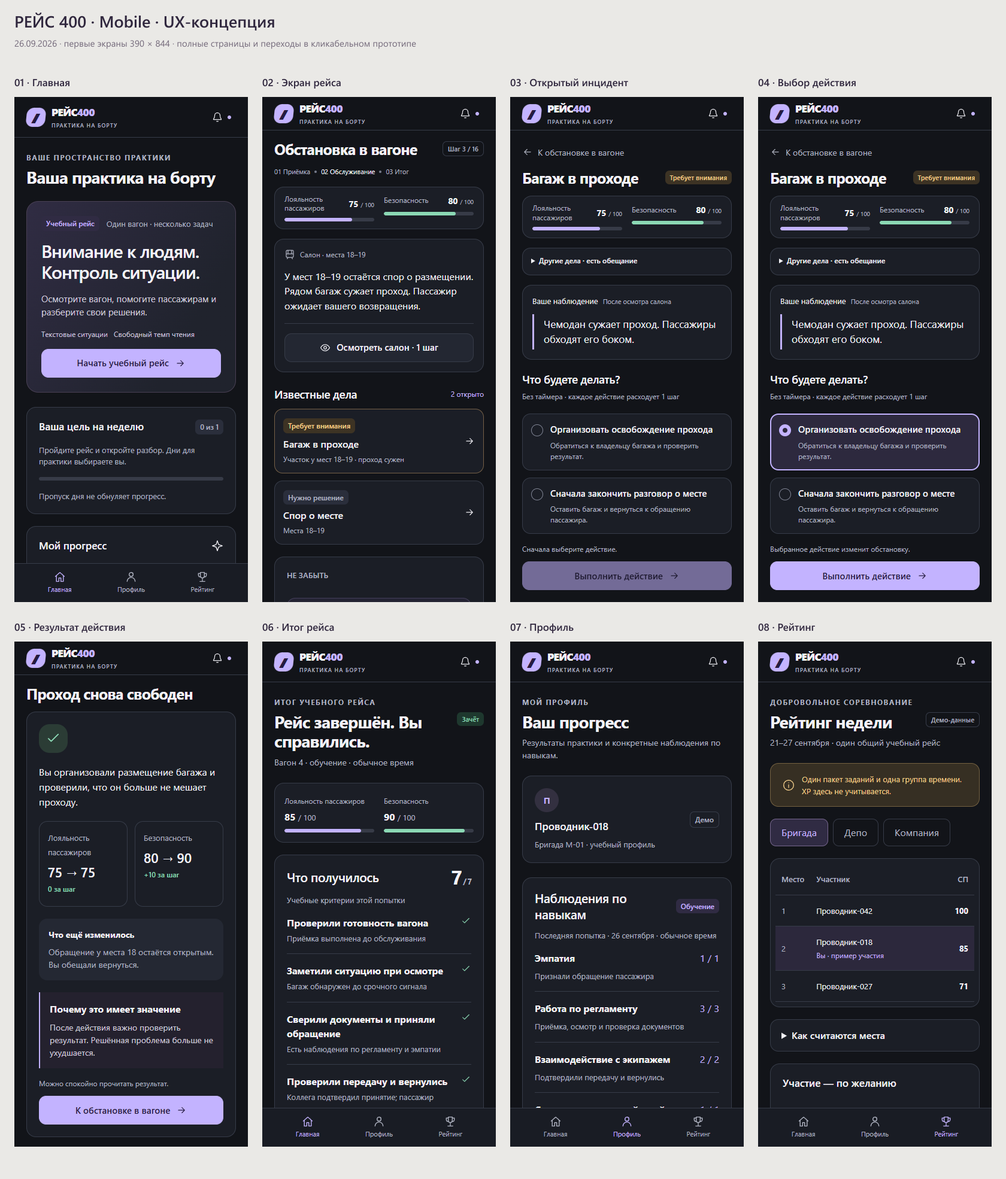
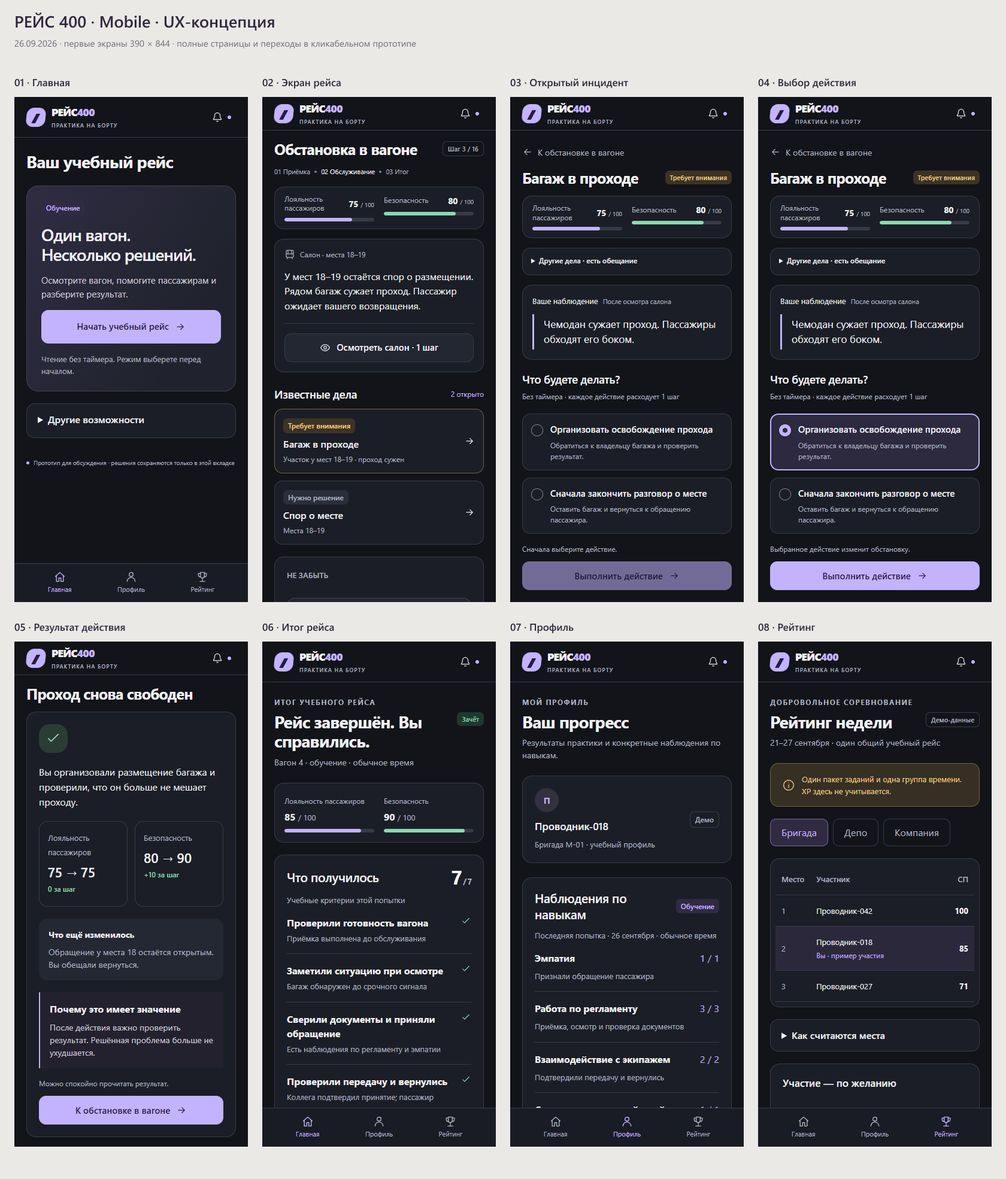
docs(ux): simplify home and separate design handoff from runtime

Changed region(s): [[0.031, 0.1239, 0.2167, 0.4645]]

diff --git a/docs/ux-2026-09-26/index.html b/docs/ux-2026-09-26/index.html
@@ -1,11 +1,11 @@
 <!doctype html><html lang="ru"><head><meta charset="utf-8"><meta name="viewport" content="width=device-width,initial-scale=1"><title>РЕЙС 400 — UX для обсуждения</title><style>
 *{box-sizing:border-box}body{margin:0;background:#eae9e6;color:#25262d;font:15px/1.5 'Segoe UI',Arial,sans-serif}button,select{font:inherit}button,a,select{touch-action:manipulation}button{cursor:pointer}a{color:#5b467f;text-underline-offset:3px}.review-head{padding:22px 32px 0;background:#faf9f7;border-bottom:1px solid #d6d3d0}.head{display:flex;justify-content:space-between;gap:20px;align-items:center}.head h1{font-size:24px;letter-spacing:-.7px;margin:0;font-weight:650}.head p{margin:4px 0 0;color:#686671;font-size:13px}.head .meta{font-size:12px;color:#686671;text-align:right}.review-tabs{display:flex;gap:24px;margin-top:22px;flex-wrap:wrap}.review-tabs button{background:none;border:0;border-bottom:3px solid transparent;padding:0 0 12px;color:#706b76;min-height:44px}.review-tabs button.active{border-bottom-color:#7b649f;color:#30273e;font-weight:650}button:focus-visible,a:focus-visible,select:focus-visible{outline:3px solid #78629e;outline-offset:3px}.toolbar{padding:16px 32px;display:flex;justify-content:space-between;gap:16px;align-items:center;flex-wrap:wrap}.tools{display:flex;gap:10px;align-items:center;flex-wrap:wrap}.toolbar label{font-size:12px;color:#686671}.toolbar select{border:1px solid #c9c5cf;background:#faf9f7;border-radius:8px;padding:8px;min-height:40px;max-width:280px}.segmented{display:flex;border:1px solid #c9c5cf;border-radius:8px;overflow:hidden}.segmented button{border:0;background:#f8f7f5;padding:8px 14px;min-height:40px;color:#66606f}.segmented button.active{background:#30273e;color:#fff}.plain{border:1px solid #c9c5cf;border-radius:8px;background:#f8f7f5;padding:8px 14px;min-height:40px;color:#47404e;text-decoration:none;font-size:13px}.frame-wrap{padding:0 24px 24px;display:flex;justify-content:center}iframe{width:100%;height:calc(100vh - 237px);min-height:640px;border:1px solid #57505e;border-radius:16px;background:#121419;box-shadow:0 12px 45px #30273e15;transition:width .15s}iframe.mobile{width:390px;max-width:100%;height:844px;border-radius:28px;border:7px solid #343139}.caption{font-size:12px;text-align:center;color:#686671;margin:0 20px 24px}.sheet{max-width:1180px;margin:28px auto 60px;padding:0 28px}.sheet h2{font-size:32px;letter-spacing:-.8px;line-height:1.2;margin:0 0 14px;font-weight:600}.sheet h3{font-size:20px;margin:0 0 12px}.lead{font-size:17px;color:#686671;max-width:78ch}.cards{display:grid;grid-template-columns:repeat(2,minmax(0,1fr));gap:20px;margin:28px 0}.card{padding:24px;border:1px solid #d2cdd7;background:#faf9f7;border-radius:16px}.card p{color:#625d69;margin:8px 0}.tag{display:inline-block;font-size:11px;padding:4px 8px;background:#ece5f3;border-radius:6px;color:#5f4b7e;margin-bottom:14px;font-weight:600}.tag.warn{background:#eee3d3;color:#745529}.card img{width:100%;border-radius:8px;margin-top:12px}.flow-art{width:100%;background:#faf9f7;border:1px solid #d2cdd7;border-radius:20px;margin:24px 0}.steps{display:grid;grid-template-columns:repeat(3,1fr);gap:20px;margin:24px 0}.step{background:#faf9f7;border-radius:14px;border:1px solid #d2cdd7;padding:20px}.step b{color:#8b709e;font-size:13px}.step strong{display:block;margin-top:10px}.step p{font-size:14px;color:#686671}.swatches{display:flex;gap:12px;flex-wrap:wrap;margin:24px 0}.swatch{border:1px solid #cbc5d2;border-radius:12px;overflow:hidden;width:145px;background:white}.swatch div{height:64px}.swatch p{margin:12px;font-size:12px}.token-table{width:100%;border-collapse:collapse;font-size:14px}.token-table td,.token-table th{padding:14px;border-bottom:1px solid #d4cfd9;text-align:left;vertical-align:top}.token-table th{font-size:12px;color:#6c6277}.link-row{display:flex;gap:18px;flex-wrap:wrap;margin:24px 0}.component-preview{background:#171921;color:#eeeaf6;padding:24px;border-radius:16px;display:flex;align-items:center;gap:16px;flex-wrap:wrap}.component-preview .primary{background:#c3b3ff;color:#251b40;border:0;border-radius:12px;padding:14px 20px;min-height:48px;font-size:15px}.component-preview span{padding:7px 11px;border-radius:8px;font-size:12px}.screens-grid{display:grid;grid-template-columns:repeat(4,1fr);gap:20px;margin:24px 0}.screen-item{background:#faf9f7;border:1px solid #d2cdd7;border-radius:14px;padding:12px;text-decoration:none;color:#30273e}.screen-item img{width:100%;border-radius:8px;border:1px solid #d2cdd7;display:block;margin-bottom:12px}.screen-item strong{font-size:14px}.screen-item small{display:block;color:#6c6277}.callout{border-left:3px solid #8d74a7;padding:8px 0 8px 20px;color:#625d69;max-width:86ch}.hidden{display:none!important}@media(max-width:700px){.review-head{padding:18px 20px 0}.head{display:block}.head .meta{display:none}.head h1{font-size:21px}.review-tabs{gap:16px;font-size:13px;margin-top:16px}.toolbar{padding:14px 20px}.toolbar select{max-width:235px}.frame-wrap{padding:0 10px 20px}iframe{height:780px;border-radius:12px;min-height:0}.sheet{padding:0 20px;margin-top:24px}.sheet h2{font-size:27px}.cards,.steps{grid-template-columns:1fr}.screens-grid{grid-template-columns:repeat(2,1fr)}.token-table{font-size:12px}.token-table td,.token-table th{padding:10px}.lead{font-size:16px}.flow-art{min-height:220px}.tools .plain{display:none}}
 </style></head><body>
-<header class="review-head"><div class="head"><div><h1>РЕЙС 400 <span style="font-weight:400;color:#81768d">/ UX-концепция</span></h1><p>Понятная обстановка. Одно решение в фокусе.</p></div><div class="meta">26 сентября 2026<br>Для согласования · frontend не изменён</div></div><nav class="review-tabs" aria-label="Материалы концепции"><button data-tab="prototype" class="active">Прототип</button><button data-tab="flow">User Flow</button><button data-tab="audit">Аудит</button><button data-tab="system">Дизайн-система</button><button data-tab="screens">Все макеты</button></nav></header>
+<header class="review-head"><div class="head"><div><h1>РЕЙС 400 <span style="font-weight:400;color:#81768d">/ UX-концепция</span></h1><p>Понятная обстановка. Одно решение в фокусе.</p></div><div class="meta">26 сентября 2026<br>Дизайн-база · runtime отдельно</div></div><nav class="review-tabs" aria-label="Материалы концепции"><button data-tab="prototype" class="active">Прототип</button><button data-tab="flow">User Flow</button><button data-tab="audit">Аудит</button><button data-tab="system">Дизайн-система</button><button data-tab="screens">Все макеты</button></nav></header>
 <section id="prototype" class="tab-content"><div class="toolbar"><div class="tools"><label for="screen">Экран</label><select id="screen"><optgroup label="Основные макеты"><option value="home">01 · Главная</option><option value="overview" selected>02 · Экран рейса</option><option value="incident">03 · Открытый инцидент</option><option value="action">04 · Выбор действия</option><option value="feedback">05 · Результат действия</option><option value="result">06 · Итог рейса</option><option value="profile">07 · Профиль</option><option value="ranking">08 · Рейтинг</option></optgroup><optgroup label="Дополнительные состояния"><option value="briefing">Брифинг и режим</option><option value="inspection">Приёмка</option><option value="pending">Срочный сигнал до таймера</option><option value="critical">Критическое решение</option><option value="paused">Учебная пауза</option><option value="timeout">Время истекло</option><option value="offline">Потеря ответа</option><option value="failed">Незачёт</option><option value="empty">Пустой профиль</option><option value="notices">Уведомления</option></optgroup></select><a class="plain" id="separate" href="prototype.html?screen=overview" target="_blank">Отдельное окно ↗</a></div><div class="tools"><div class="segmented" aria-label="Размер макета"><button id="desktop" class="active">Desktop</button><button id="mobile">Mobile · 390</button></div><button class="plain" id="start">Пройти с начала ↻</button></div></div><div class="frame-wrap"><iframe id="frame" title="Кликабельный UX-прототип РЕЙС 400" src="prototype.html?screen=overview&amp;preview=review-initial"></iframe></div><p class="caption">Кликайте внутри макета. Переключатель экрана открывает демонстрационное состояние. Полный путь начинается с главной.</p></section>
 <section id="flow" class="tab-content sheet hidden"><span class="tag">01 / ИГРОВОЙ ЦИКЛ</span><h2>Общая картина → конкретное дело →<br>изменившаяся обстановка.</h2><p class="lead">Игрок видит только известные факты. Два дела могут оставаться открытыми одновременно, но на экране решения — один диалог.</p><img class="flow-art" src="user-flow.svg" alt="Путь от главной и приёмки к обзору, инциденту, действию, последствиям и итогу. Ветка срочного сигнала открывает таймер только после продолжения."><div class="steps"><div class="step"><b>01 · ОБНАРУЖИТЬ</b><strong>Осмотр меняет знание</strong><p>До осмотра скрытая проблема не показана даже в счётчике. Обычное чтение не тратит шаги.</p></div><div class="step"><b>02 · ВЫБРАТЬ ПРИОРИТЕТ</b><strong>Один фокус, общий мир</strong><p>Второе дело и обещание сохраняются. Возврат к обстановке ничего не обнуляет.</p></div><div class="step"><b>03 · ПРОВЕРИТЬ И ВЕРНУТЬСЯ</b><strong>Передано ≠ выполнено</strong><p>Запрос, подтверждение принятия и проверка исполнения показаны раздельно.</p></div></div><div class="callout">В обычном выборе: отметить вариант → выполнить. В критической сцене: одно нажатие сразу выполняет действие. Это различие явно подписано. Подсказки и пауза доступны только в обучении.</div><div class="link-row"><a href="USER-FLOW.md">Подробный User Flow и сценарий просмотра</a><a href="SCREENS.md">Спецификация экранов и состояний</a></div></section>
 <section id="audit" class="tab-content sheet hidden"><span class="tag">02 / ТЕКУЩЕЕ ПРИЛОЖЕНИЕ</span><h2>Сначала понять, потом украшать.</h2><p class="lead">Пройдены все пять модулей, результаты, профиль, история и повтор, уведомления и три области рейтинга. Проверены desktop и mobile в браузере.</p><div class="cards"><article class="card"><span class="tag">ФОТО 1 · ПОДТВЕРЖДЕНО</span><h3>Навигацию приходится угадывать</h3><p>На телефоне видны абстрактные символы без подписей. Новая основа — три подписанных раздела и явный возврат к обстановке.</p><a href="evidence/current-home-mobile.png">Открыть текущий mobile-экран ↗</a></article><article class="card"><span class="tag">ФОТО 2 · ПОДТВЕРЖДЕНО</span><h3>Отступ перед ответом — 0 px</h3><p>Подсказка слипается с карточкой. В концепции — 20 px до первого варианта, 12 px между вариантами, 16–20 px внутри.</p><a href="evidence/current-scene-mobile.png">Посмотреть текущий игровой экран ↗</a></article><article class="card"><span class="tag warn">ФОТО 3 · ВНЕШНИЙ ПРИМЕР</span><h3>Перекрытие на сайте хакатона</h3><p>Такой cookie-баннер в игре не найден. В дизайн-правила включены контроль слоёв, границ окна и видимости основного действия.</p></article><article class="card"><span class="tag warn">ФОТО 4 · НЕ ПОВТОРИЛОСЬ</span><h3>Уязвимая высота баннера</h3><p>На проверенных размерах кнопка не обрезалась. Фиксированная высота и overflow:hidden остаются риском. На 320 px обнаружена горизонтальная прокрутка.</p></article></div><h3>Что сокращаем</h3><table class="token-table"><thead><tr><th>Сейчас</th><th>Предложение</th></tr></thead><tbody><tr><td>11 входов в модули: hero + маршрут + карточки</td><td>Один главный вход в рейс; точечная практика ниже</td></tr><tr><td>Большая декоративная сцена до первого действия</td><td>Короткий контекст, видимые шкалы, варианты рядом</td></tr><tr><td>Технические подписи и мотивационные числа в игре</td><td>Состояние рейса в фокусе; XP и история в профиле</td></tr><tr><td>«Следующая ситуация», «К смене»</td><td>«К обстановке в вагоне», «Перейти к срочной ситуации»</td></tr></tbody></table><div class="link-row"><a href="AUDIT.md">Полный аудит с приоритетами и доказательствами</a><a href="QA-RESULTS.md">Проверки и ограничения</a></div></section>
-<section id="system" class="tab-content sheet hidden"><span class="tag">03 / ОСНОВА ИНТЕРФЕЙСА</span><h2>Спокойный интерфейс.<br>Ясная срочность.</h2><p class="lead">Сохраняем тёмную основу и сиреневый акцент. Цвет статуса всегда сопровождается словами. Красный появляется только там, где он нужен.</p><div class="swatches"><div class="swatch"><div style="background:#121419"></div><p>Фон<br><b>#121419</b></p></div><div class="swatch"><div style="background:#1b1e26"></div><p>Поверхность<br><b>#1B1E26</b></p></div><div class="swatch"><div style="background:#c3b3ff"></div><p>Действие<br><b>#C3B3FF</b></p></div><div class="swatch"><div style="background:#8bd8b4"></div><p>Выполнено<br><b>#8BD8B4</b></p></div><div class="swatch"><div style="background:#f4ce8b"></div><p>Внимание<br><b>#F4CE8B</b></p></div><div class="swatch"><div style="background:#ffaca5"></div><p>Критическое<br><b>#FFACA5</b></p></div></div><div class="cards"><div class="card"><h3>Segoe UI / системный шрифт</h3><p style="font-size:32px;line-height:1.2;color:#25262d">Решение начинается<br>с внимания.</p><p>Заголовок 28–40 · текст 16 · пояснение 13–14.<br>Строка 1.5–1.6, без мелкого текста в ответах.</p></div><div class="card"><h3>8 px — основа ритма</h3><p>Поля 40 / 20. Карточки 24 / 20.<br>Варианты: промежуток 12, padding 16–20.<br>Кнопка минимум 48 по высоте.</p><p>Карточки растут по содержимому. Декор не обрезает CTA.</p></div></div><div class="component-preview"><button class="primary" type="button" onclick="this.textContent=this.textContent==='Выполнить действие'?'Действие подтверждено':'Выполнить действие'">Выполнить действие</button><span style="background:#1e382e;color:#8bd8b4">✓ Выполнено</span><span style="background:#3d3324;color:#f4ce8b">Требует внимания</span><span style="background:#442929;color:#ffaca5">! Критическая ситуация</span></div><div class="steps"><div class="step"><strong>Кнопки</strong><p>Одна ведущая цель. Явный focus. Вариант ответа выбирается без угадывания иконки.</p></div><div class="step"><strong>Таймер</strong><p>Стабильные цифры, только одно окно. Пауза подтверждена, остаток сохранён.</p></div><div class="step"><strong>Слои</strong><p>Уведомления не накрывают рабочий выбор. Основное действие остаётся в потоке страницы.</p></div></div><div class="link-row"><a href="DESIGN-SYSTEM.md">Все размеры, компоненты, состояния и источники</a></div></section>
+<section id="system" class="tab-content sheet hidden"><span class="tag">03 / ОСНОВА ИНТЕРФЕЙСА</span><h2>Спокойный интерфейс.<br>Ясная срочность.</h2><p class="lead">Сохраняем тёмную основу и сиреневый акцент. Цвет статуса всегда сопровождается словами. Красный появляется только там, где он нужен.</p><div class="swatches"><div class="swatch"><div style="background:#121419"></div><p>Фон<br><b>#121419</b></p></div><div class="swatch"><div style="background:#1b1e26"></div><p>Поверхность<br><b>#1B1E26</b></p></div><div class="swatch"><div style="background:#c3b3ff"></div><p>Действие<br><b>#C3B3FF</b></p></div><div class="swatch"><div style="background:#8bd8b4"></div><p>Выполнено<br><b>#8BD8B4</b></p></div><div class="swatch"><div style="background:#f4ce8b"></div><p>Внимание<br><b>#F4CE8B</b></p></div><div class="swatch"><div style="background:#ffaca5"></div><p>Критическое<br><b>#FFACA5</b></p></div></div><div class="cards"><div class="card"><h3>Segoe UI / системный шрифт</h3><p style="font-size:32px;line-height:1.2;color:#25262d">Решение начинается<br>с внимания.</p><p>Заголовок 28–40 · текст 16 · пояснение 13–14.<br>Строка 1.5–1.6, без мелкого текста в ответах.</p></div><div class="card"><h3>8 px — основа ритма</h3><p>Поля 40 / 20. Карточки 24 / 20.<br>Варианты: промежуток 12, padding 16–20.<br>Кнопка минимум 48 по высоте.</p><p>Карточки растут по содержимому. Декор не обрезает CTA.</p></div></div><div class="component-preview"><button class="primary" type="button" onclick="this.textContent=this.textContent==='Выполнить действие'?'Действие подтверждено':'Выполнить действие'">Выполнить действие</button><span style="background:#1e382e;color:#8bd8b4">✓ Выполнено</span><span style="background:#3d3324;color:#f4ce8b">Требует внимания</span><span style="background:#442929;color:#ffaca5">! Критическая ситуация</span></div><div class="steps"><div class="step"><strong>Кнопки</strong><p>Одна ведущая цель. Явный focus. Вариант ответа выбирается без угадывания иконки.</p></div><div class="step"><strong>Таймер</strong><p>Стабильные цифры, только одно окно. Пауза подтверждена, остаток сохранён.</p></div><div class="step"><strong>Слои</strong><p>Уведомления не накрывают рабочий выбор. Основное действие остаётся в потоке страницы.</p></div></div><div class="link-row"><a href="DESIGN-SYSTEM.md">Все размеры, компоненты, состояния и источники</a><a href="DESIGN-HANDOFF.md">Отдельная поставка дизайна и интеграция #26</a></div></section>
 <section id="screens" class="tab-content sheet hidden"><span class="tag">04 / ВОСЕМЬ ОСНОВНЫХ ЭКРАНОВ</span><h2>Весь путь на одном листе.</h2><p class="lead">Каждый экран подготовлен для desktop и mobile. «Инцидент» и «Выбор действия» — два состояния одного экрана, без лишнего промежуточного перехода.</p><div class="screens-grid" id="screen-grid"></div><div class="link-row"><a href="screens/contact-sheet-desktop.png">Лист desktop-макетов</a><a href="screens/contact-sheet-mobile.png">Лист mobile-макетов</a><a href="SCREENS.md">Описание экранов и дополнительных состояний</a></div></section>
 <script>
 const frame=document.getElementById('frame'),select=document.getElementById('screen');

diff --git a/docs/ux-2026-09-26/prototype.css b/docs/ux-2026-09-26/prototype.css
@@ -18,3 +18,6 @@
 @media(max-width:680px){.game .choices{margin-top:20px}}
 
 html{scroll-padding-bottom:96px}button,summary,a{scroll-margin-bottom:88px}
+
+/* Home refinement: one primary entry, optional secondary content. */
+.home-secondary{margin-top:24px}.home-secondary>summary{min-height:56px}.hero-copy>.badge{justify-self:start}body[data-screen="home"] .home-hero .btn.primary{min-height:56px}@media(max-width:680px){body[data-screen="home"] .page-head .eyebrow{display:none}body[data-screen="home"] .home-hero{padding:24px}body[data-screen="home"] .hero-copy h2{font-size:28px}body[data-screen="home"] .hero-copy>small{font-size:13px}.home-secondary{margin-top:20px}}

diff --git a/docs/ux-2026-09-26/DESIGN-HANDOFF.md b/docs/ux-2026-09-26/DESIGN-HANDOFF.md
@@ -1,0 +1,32 @@
+# Дизайн-поставка и интеграция
+
+## Решение после отзыва 26.09.2026
+
+Пользователь принял направление UX, User Flow и модель обзора с параллельными ситуациями. Условия завершения дизайн-поставки: упрощённая мобильная главная, проверка/обоснование палитры, отдельная поставка дизайна. Эти условия отражены в текущей ревизии; дизайн служит основой реализации #26. Это не разрешение на merge PR, не приёмка runtime и не замена пользовательских испытаний.
+
+## Поставка A — дизайн, ветка ux-review
+
+Весь diff ограничен `docs/ux-2026-09-26/`: документы, User Flow, изолированный HTML-прототип, его локальный файловый просмотрщик, PNG и доказательства проверок. `prototype.js` содержит демонстрационное состояние для кликов; это дизайн-артефакт, не production-движок.
+
+Главная теперь показывает один основной CTA «Начать учебный рейс» / «Продолжить рейс». Цель недели, прогресс и точечная практика доступны через закрытый по умолчанию блок «Другие возможности». Подписанная навигация остаётся доступной. Обзор и игровой экран не переработаны заново.
+
+Палитра сохранена как обоснованное продуктовое решение, не официальная палитра перевозчика. Основание и альтернативы — [DESIGN-SYSTEM](DESIGN-SYSTEM.md#статус-и-обоснование-палитры).
+
+## Поставка B — implementation, задача #26
+
+Рабочие `src/`, корневые `index.html` / `styles.css`, backend, API, SQLite, сборка `dist`, Docker и deployment сюда не входят. Их изменения интегрируются отдельной поставкой вместе с #26 после согласования дизайн-базы.
+
+В PR [#29](https://github.com/RomaGrach/mt-hackathon/pull/29) дизайн смешан с изменениями runtime. Он остаётся открытым без слияния. Его реализацию нельзя принять автоматически вместе с этими документами. Не требуется удалять сделанную работу: переносить нужные части пофайлово/отдельными коммитами с проверкой зависимостей в интеграционную ветку #26, а не cherry-pick всего смешанного PR.
+
+### Условия интеграции #26
+
+1. Реальные PublicRun/команды вместо локального состояния прототипа; скрытые дела не раскрываются через API.
+2. Серверные deadline, пауза, requestId/revision, восстановление и защита от повторов. Preview-таймер не считается реализацией этих гарантий.
+3. Один результат ShiftRun, независимые Incident/Task, запрос → принятие → исполнение и адресный возврат.
+4. Раздельные критерии, XP, СП; миграция и сохранение v1; правила GAMEPLAY и GAMIFICATION-RULES.
+5. Контрактные и end-to-end проверки, мобильные состояния/ошибки, реальные пользовательские проверки и проверка на телефоне.
+6. Отдельное решение о готовности интеграционного PR. Утверждение дизайна не разрешает слияние #29 и не закрывает #24 целиком.
+
+## Ревью
+
+Принимать отдельно: структуру экранов, микротекст, визуальную иерархию, токены и демонстрационные переходы. Не принимать по этим макетам: защищённые результаты, награды, серверное время, backend, клиническую/профессиональную валидность или выпуск продукта.

diff --git a/docs/ux-2026-09-26/DESIGN-SYSTEM.md b/docs/ux-2026-09-26/DESIGN-SYSTEM.md
@@ -23,6 +23,21 @@
 
 ## Цвета
 
+### Статус и обоснование палитры
+
+26.09.2026 проверены документы текущей ветки, задача #24, описание PR #29 и его отчёт `research/ux/review-2.md` в ревизии `3b1648b174cc7edf2a3c369ec44b5789b0eb93b9`. Подтверждения согласованной официальной палитры приложения/ВСМ в этих источниках не найдено. Отсутствие в проверенных материалах не доказывает отсутствие брендбука у заказчика.
+
+В [отчёте #29](https://github.com/RomaGrach/mt-hackathon/blob/3b1648b174cc7edf2a3c369ec44b5789b0eb93b9/research/ux/review-2.md) красный `#DA2032` назван цветом из CSS Московского транспорта, но прямо отделён от утверждённого брендбука ВСМ. Это кандидат по визуальному источнику, а не доказательство согласования. Замечание экспертов о необязательности точных цветов относилось к изображению вагона, а не к бренд-палитре интерфейса.
+
+**Для отдельной дизайн-поставки сохраняем текущую палитру с обоснованием:**
+
+- Тёмная основа и сиреневый акцент продолжают узнаваемость уже существующего РЕЙС 400; это преемственность продукта, а не заявление об официальном бренде.
+- Сиреневый отмечает действие/выбор, а красный остаётся сигналом критической ситуации. Так основная кнопка не использует ту же семантику, что аварийный статус. Это проектная гипотеза; её преимущество не измерено пользовательским тестом.
+- Контраст текста на основной кнопке — 8.56:1; основного текста — 16.54:1; вторичного — 8.24:1. Статусные пары — 7.33–8.28:1. [Расчёт палитры](evidence/palette-contrast.json). Это не полный WCAG-аудит и не доказательство, что тёмная тема предпочтительна каждому пользователю.
+- Бело-красный вариант из #29 остаётся допустимой альтернативой при подтверждении владельцем бренда. Случайное заимствование красного с внешнего сайта не объявляется «официальной палитрой проекта».
+
+При поступлении утверждённого брендбука заменить семантические токены и связанные декоративные оттенки, затем заново проверить контраст, focus, статусы и экспорт всех экранов. Это не требует изменения принятого User Flow. В данной ревизии выполнен разрешённый пользователем вариант «отдельно обосновать текущую».
+
 | Назначение | Значение | Пара |
 |---|---|---|
 | Фон | `#121419` | Основной текст `#F3F2F7` |

diff --git a/docs/ux-2026-09-26/SCREENS.md b/docs/ux-2026-09-26/SCREENS.md
@@ -4,7 +4,7 @@
 
 | № / экран | Главная задача | Иерархия и основной переход |
 |---|---|---|
-| 01 Главная | Начать или продолжить практику | Один hero с CTA → краткая недельная цель/прогресс → точечная практика. Рейтинг не перехватывает первый запуск. |
+| 01 Главная | Начать или продолжить практику | Один hero с CTA. Цель недели, прогресс и точечная практика раскрываются через «Другие возможности». Рейтинг не перехватывает первый запуск. |
 | 02 Рейс / обстановка | Понять мир и выбрать приоритет | Стадия и рабочий шаг → две шкалы → 2–3 предложения наблюдения → осмотр → известные дела → обещание. Ничего скрытого в счётчике. |
 | 03 Открытый инцидент | Понять конкретную проблему | Явный возврат → название/место/статус → шкалы → короткая сцена → 2–4 варианта; другие дела компактно рядом/над сценой. |
 | 04 Выбор действия | Осознанно выполнить вариант | Тот же экран, отмеченный вариант и активная кнопка «Выполнить действие». Нет отдельного ненужного перехода или модального подтверждения. |

diff --git a/docs/ux-2026-09-26/QA-RESULTS.md b/docs/ux-2026-09-26/QA-RESULTS.md
@@ -1,5 +1,11 @@
 # Проверки и границы результата
 
+## Уточнение после принятия направления
+
+26.09.2026: главная переработана в один основной вход и закрытый по умолчанию блок «Другие возможности». Повторно проверены 320/390/768/1440 px: один основной CTA, высота 56 px, отсутствие горизонтального переполнения, раскрытие и повторное закрытие дополнительных действий, переход через брифинг к приёмке. При 390×844 кнопка заканчивается на 412 px, при 320×844 — на 466 px. [Измерения](evidence/home-refinement.json). Новые PNG главной и оба контактных листа обновлены; остальные экраны относятся к предыдущему визуальному проходу.
+
+Текущая палитра отдельно обоснована в DESIGN-SYSTEM; официальное согласование бренд-палитры не заявлено. Дизайн/runtime разделены в DESIGN-HANDOFF. Проверки ниже описывают исходный полный проход; новый backend и рабочий frontend в этой доработке не изменялись.
+
 26.09.2026. Проверены исходная игра и отдельная UX-концепция. Версия исходного репозитория: `77c470ff29bb3c7ee334ffa098ba0223cb0e330a`.
 
 ## Исходная игра

diff --git a/docs/ux-2026-09-26/README.md b/docs/ux-2026-09-26/README.md
@@ -4,6 +4,8 @@
 
 ## Ветка для согласования
 
+**После отзыва 26.09:** мобильная главная упрощена до одного основного входа и раскрываемого блока вторичных возможностей. [Обоснование палитры](DESIGN-SYSTEM.md#статус-и-обоснование-палитры) и [граница дизайн / implementation #26](DESIGN-HANDOFF.md) оформлены отдельно. Принятое направление используется как дизайн-база; слияние PR и готовность runtime этим не подтверждаются.
+
 Материалы находятся в ветке **`ux-review`**. Чтобы открыть их в существующем клоне репозитория:
 
 ```powershell
